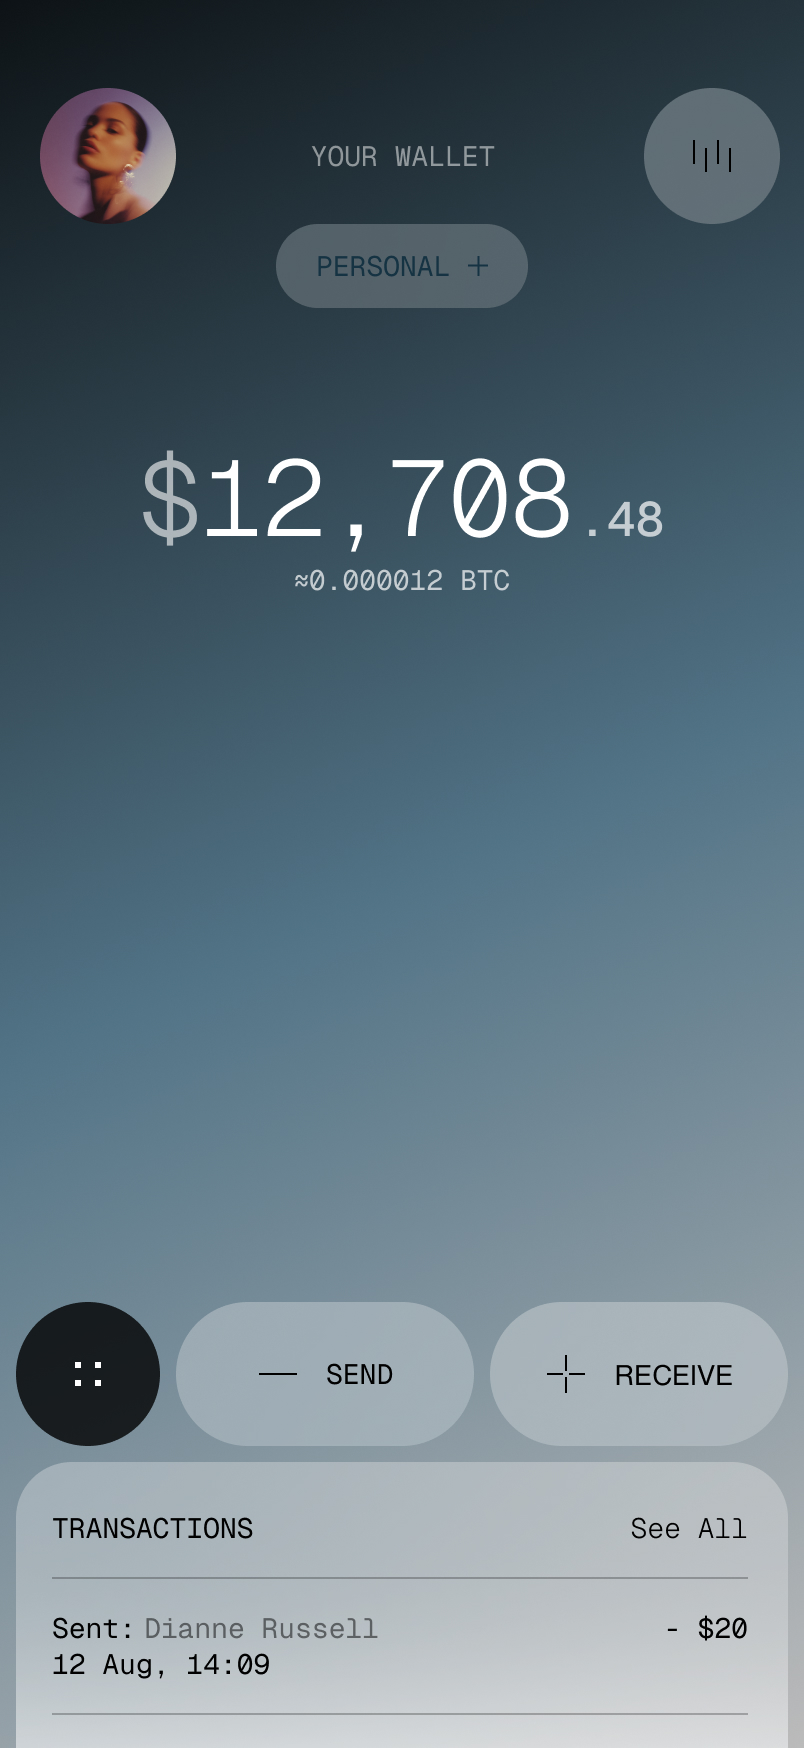
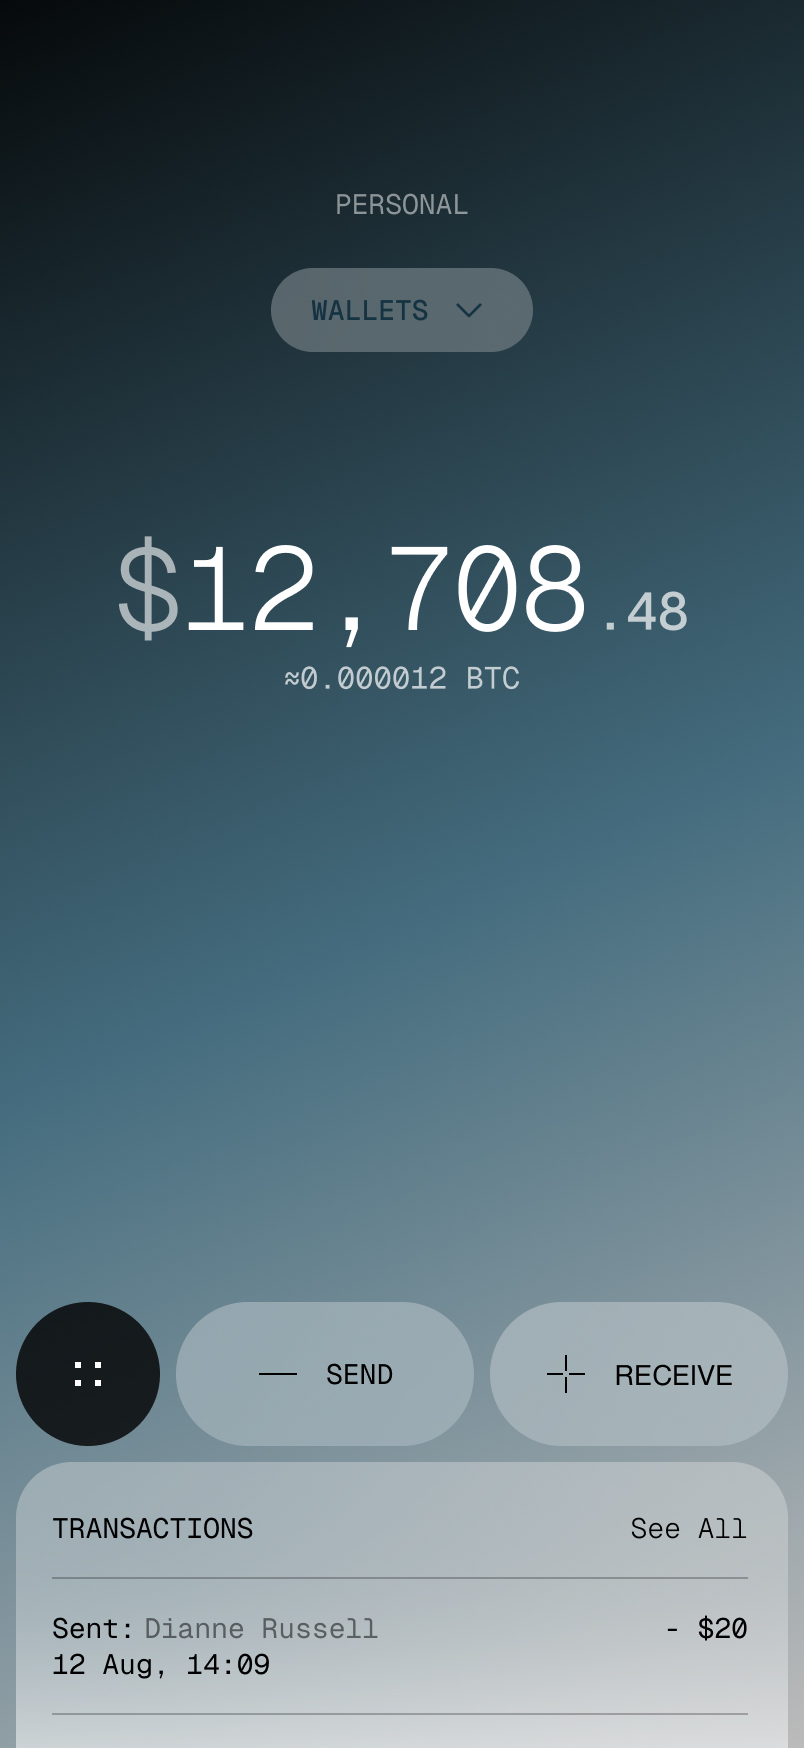
design & content revamp

diff --git a/CLAUDE.md b/CLAUDE.md
@@ -4,6 +4,11 @@ Marketing site for Glid, an open-source, self-custody Bitcoin wallet for iPhone 
 
 Keep this file current. When a convention changes, a new pattern is introduced, or something non-obvious is learned, update the relevant section here in the same change.
 
+## Git
+
+- Work only on `main`. Never create branches or check out other branches unless explicitly asked; commit straight to `main`. This overrides any default of branching before committing.
+- Commit or push only when asked.
+
 ## Stack
 
 - Nuxt 3 (Vue 3, `<script setup>`), statically generated: `npm run generate` → `.output/public`.
